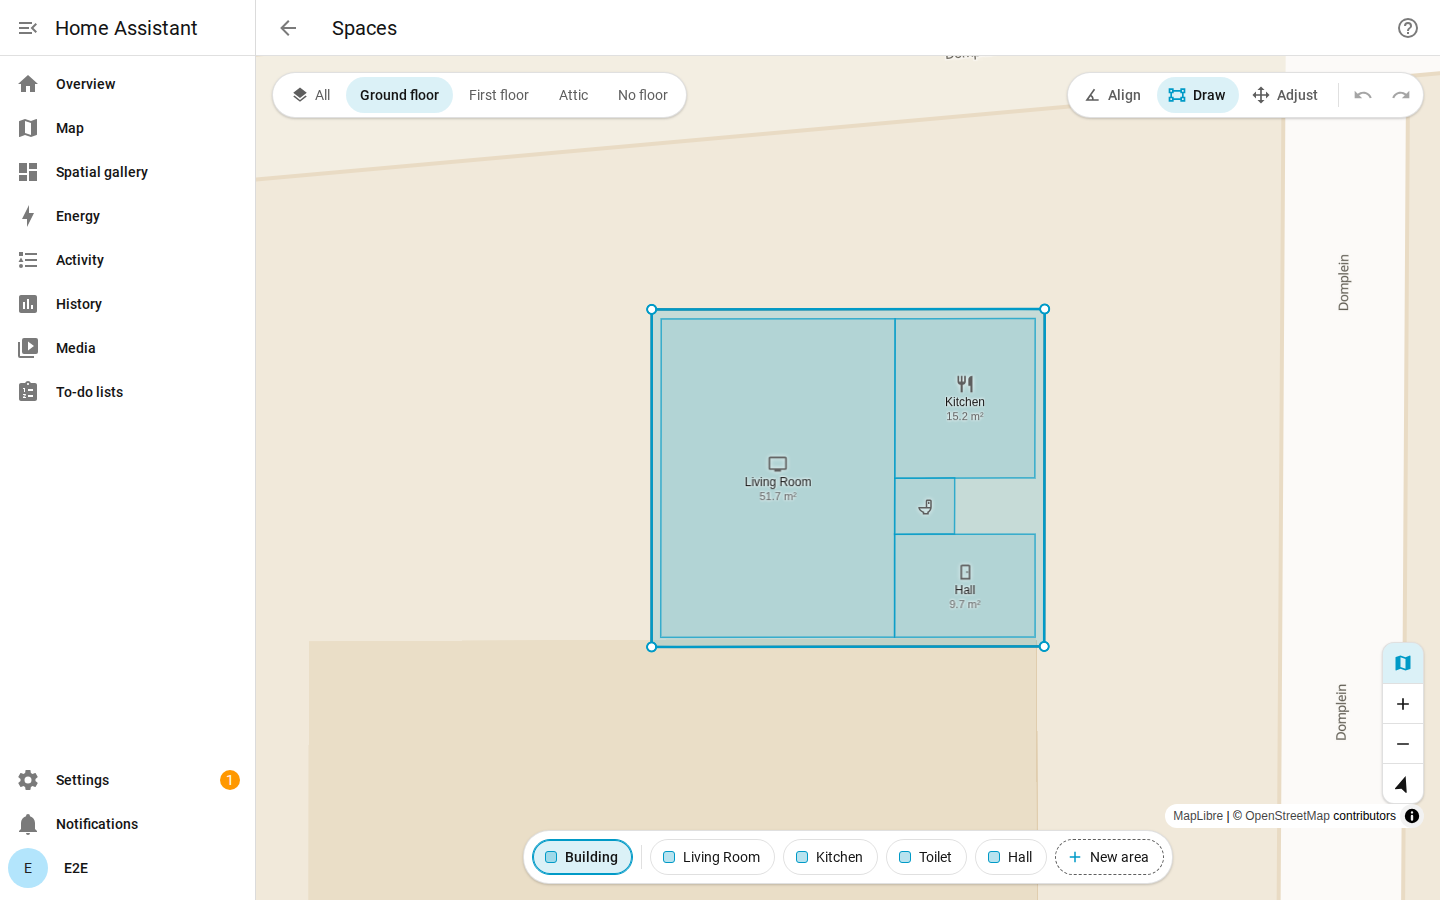
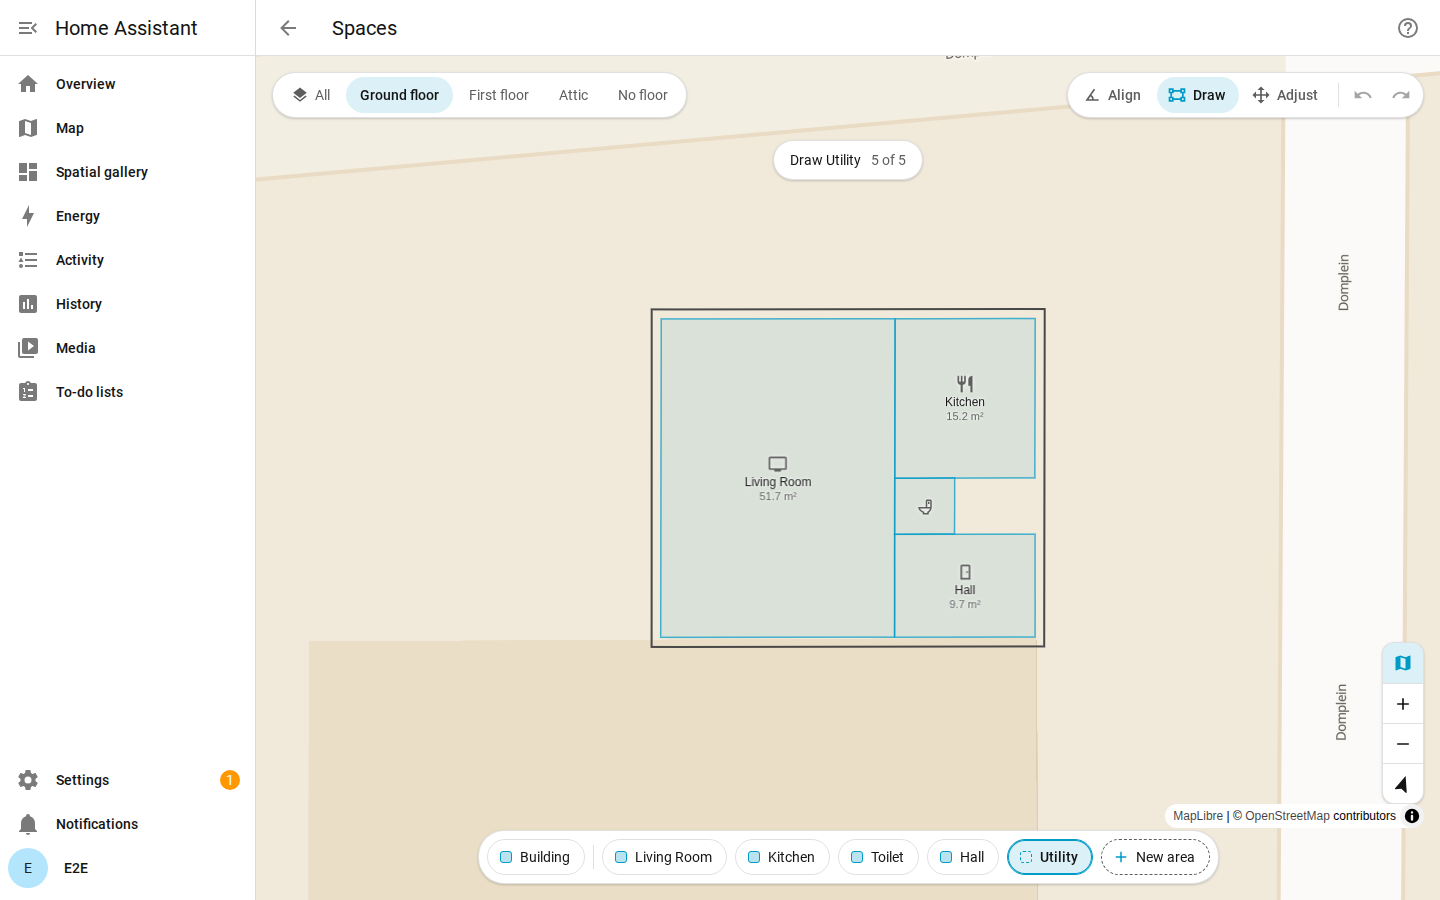
docs: Regenerate the images from the example house with areas to draw
Main added areas without a shape to the example house; the strip and the Draw guide line now show them.

Changed region(s): [[0.4375, 0.3422, 0.75, 0.7467], [0.3125, 0.9022, 0.8438, 0.9956], [0.5312, 0.1556, 0.6562, 0.2178]]

diff --git a/docs/user-guide.md b/docs/user-guide.md
@@ -40,7 +40,7 @@ opens on **All**, north up, centred on your home location.
    example "3 of 5". Draw each room to the wall centrelines, so neighbours share their edges.
    Use **New area** for a room that is not in Home Assistant yet.
 
-   ![Draw on the ground floor: the strip with Building first, the outline active with its corners](images/draw.png)
+   ![Draw on the ground floor: the guide line "Draw Utility" and the dashed Utility pill highlighted](images/draw.png)
 
 4. **Next floor.** Press the next floor button and draw its rooms; the outline shows on every
    floor as a guide.
